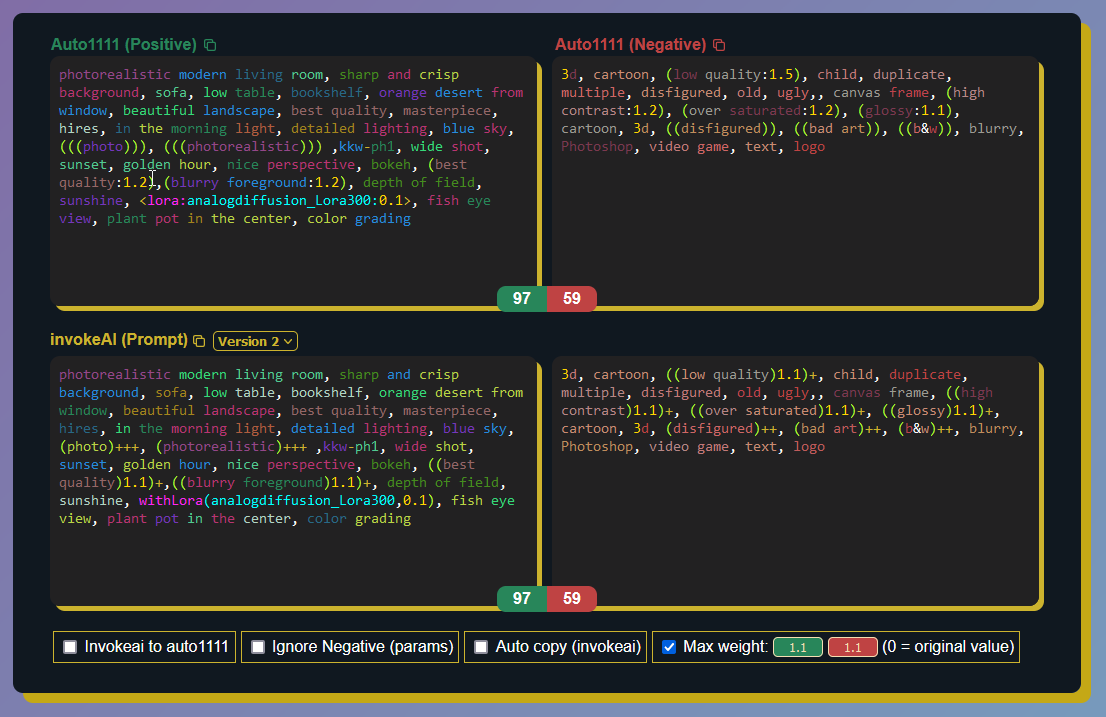
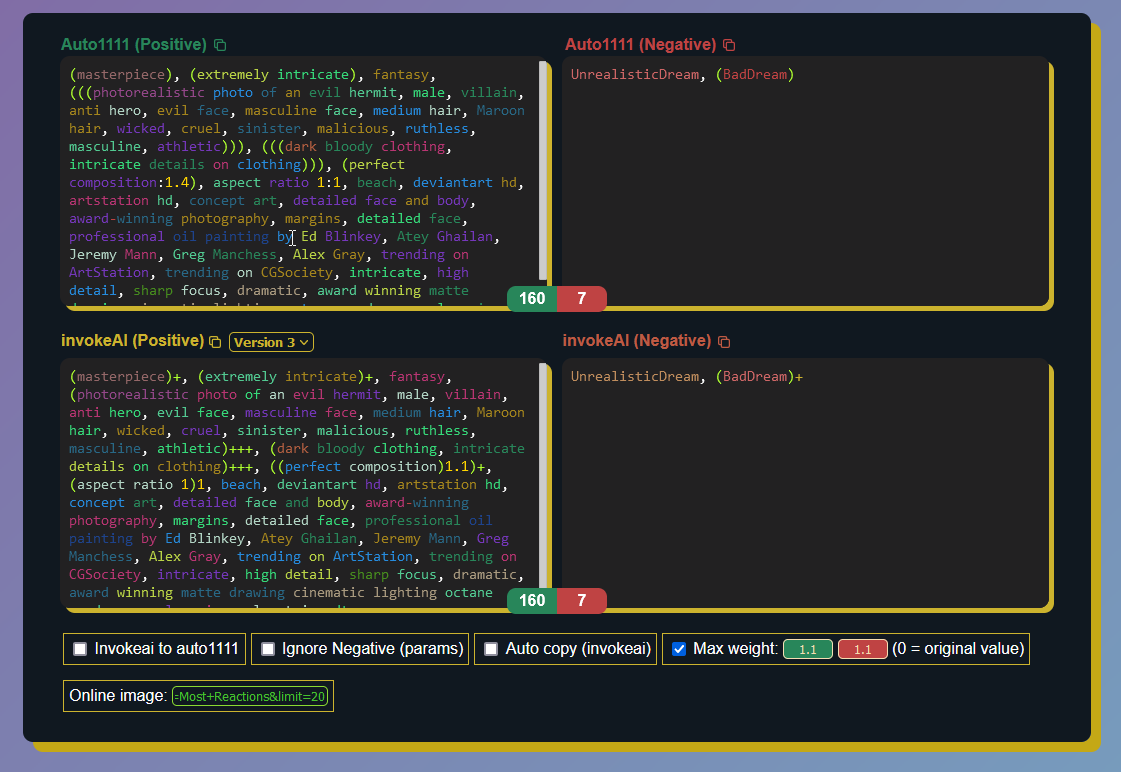
Update 1.4.2

Changed region(s): [[0.0, 0.0, 1.0, 0.9819]]

diff --git a/docs/converter.js b/docs/converter.js
@@ -183,6 +183,7 @@ $(document).ready(function () {
     $('#auto-copy-check').prop('checked', autoCopyInvokeAI);
     $('#limit-weight-positive-value').val(defaultLimitWeightPositive);
     $('#limit-weight-negative-value').val(defaultLimitWeightNegative);
+    $("#remote-image-link").val("");
 
     //Set current version
     invokeaiVersion = $("#invokeai-release").val();
@@ -340,4 +341,113 @@ $(document).ready(function () {
             }
         }
     });
+
+    //Remote image event
+    //Attach checkboxes events
+    $("#remote-image-link").on("input", function () {
+        var onlineImageElement = $("#remote-image-link");
+        var onlineImageContainer = $("#online-image-container");
+        var link = onlineImageElement.val();
+        onlineImageElement.removeClass("correct");
+        onlineImageElement.removeClass("wrong");
+        onlineImageContainer.attr("data-tippy-content", "Get prompt from online image");
+        if (link.length > 0) {
+            FetchRemoteImagePrompt(link);
+        }
+    });
 });
+
+function FetchRemoteImagePrompt(imageLink) {
+    var onlineImageElement = $("#remote-image-link");
+    var onlineImageContainer = $("#online-image-container");
+    if (typeof imageLink !== 'undefined' && imageLink.indexOf("http") !== -1 && imageLink.indexOf("images/") !== -1) {
+        var loaderElement = $("#online-image-loader");
+
+        loaderElement.fadeIn("fast").css("display", "inline-block");
+        onlineImageElement.prop('disabled', true);
+        var regex = /(.*)(images\/)(\d+).*/;
+        var imageID = imageLink.replace(regex, "$3");
+        var siteLink = imageLink.replace(regex, "$1");
+        var expectedAPI = siteLink + "api/v1/images?imageId=" + imageID;
+        auto1111PositiveCodeMirror.getDoc().setValue("");
+        auto1111NegativeCodeMirror.getDoc().setValue("");
+        setTimeout(function () {
+            try {
+                var xhr = new XMLHttpRequest();
+                xhr.open("GET", expectedAPI, false);
+                xhr.setRequestHeader("Content-type", "application/json");
+                xhr.onload = function (e) {
+                    if (xhr.readyState === 4) {
+                        if (xhr.status === 200) {
+                            var responseFullData = xhr.responseText;
+                            var jsonResult = responseFullData;
+                            try {
+                                jsonResult = JSON.parse(responseFullData);
+                            } catch (exj) {
+
+                            }
+                            if (jsonResult != null && typeof jsonResult["items"] !== 'undefined' && typeof jsonResult["items"][0] !== 'undefined') {
+                                var targetImage = jsonResult["items"][0];
+                                if (typeof targetImage["meta"] !== 'undefined') {
+                                    var imageMeta = targetImage["meta"];
+                                    var fetchedPositive = typeof imageMeta["prompt"] !== 'undefined' ? imageMeta["prompt"] : "";
+                                    var fetchedNegative = typeof imageMeta["negativePrompt"] !== 'undefined' ? imageMeta["negativePrompt"] : "";
+
+                                    if ((fetchedPositive != null && fetchedPositive.length) > 0 || (fetchedNegative != null && fetchedNegative.length) > 0) {
+                                        if (fetchedPositive != null && fetchedPositive.length > 0) {
+                                            auto1111PositiveCodeMirror.getDoc().setValue(fetchedPositive);
+                                        }
+                                        if (fetchedNegative != null && fetchedNegative.length > 0) {
+                                            auto1111NegativeCodeMirror.getDoc().setValue(fetchedNegative);
+                                        }
+                                        onlineImageElement.addClass("correct");
+                                        onlineImageContainer.attr("data-tippy-content", "Prompt found and fetched");
+                                    } else {
+                                        onlineImageElement.addClass("wrong");
+                                        onlineImageContainer.attr("data-tippy-content", "Image doesn't have prompts");
+                                    }
+                                } else {
+                                    onlineImageElement.addClass("wrong");
+                                    onlineImageContainer.attr("data-tippy-content", "Images doesn't have meta data");
+                                }
+                            } else {
+                                onlineImageElement.addClass("wrong");
+                                onlineImageContainer.attr("data-tippy-content", "Response doesn't contain valid data");
+                            }
+                        } else {
+                            onlineImageElement.addClass("wrong");
+                            onlineImageContainer.attr("data-tippy-content", "Request failed, check console log");
+                        }
+                    }
+                };
+                xhr.onerror = function (e) {
+                    onlineImageElement.addClass("wrong");
+                    onlineImageContainer.attr("data-tippy-content", e.message);
+                };
+
+                xhr.onabort = function (e) {
+                    onlineImageElement.addClass("wrong");
+                    onlineImageContainer.attr("data-tippy-content", e.message);
+                };
+
+                xhr.ontimeout = function (e) {
+                    onlineImageElement.addClass("wrong");
+                    onlineImageContainer.attr("data-tippy-content", e.message);
+                };
+
+                xhr.send();
+
+
+                onlineImageElement.prop('disabled', false);
+                loaderElement.fadeOut("fast");
+            } catch (ex) {
+                console.warn(ex);
+                onlineImageElement.prop('disabled', false);
+                loaderElement.fadeOut("fast");
+            }
+        }, 500);
+    } else {
+        onlineImageElement.addClass("wrong");
+        onlineImageContainer.attr("data-tippy-content", "This link is not valid or not supported");
+    }
+}

diff --git a/docs/index.html b/docs/index.html
@@ -100,7 +100,8 @@
                 <!-- InvokeAI Header -->
                 <th style="width: 50%;display: inline-flex;">
                     <label class="input-label-invoke" target="invokeai-positive" style="color: #ccb32e;"
-                        data-tippy-content="Click to copy (positive + negative)"><p id="invokeai-positive-label" style="display: inline;">invokeAI (Prompt)</p>
+                        data-tippy-content="Click to copy (positive + negative)">
+                        <p id="invokeai-positive-label" style="display: inline;">invokeAI (Prompt)</p>
                         <a class="invokeai-copy" id="copy-invokeai-prompt">
                             <svg xmlns="http://www.w3.org/2000/svg" width="16" height="16" viewBox="0 0 24 24"
                                 fill="none" stroke="currentColor" stroke-width="2" stroke-linecap="round"
@@ -187,12 +188,21 @@
                         <p style="display: inline;">(0 = original value)</p>
                     </div>
                 </tr>
+                <tr>
+                    <div class="options-check" id="online-image-container" data-tippy-content="Get prompt from online image">
+                        <label class="checkbox-label" for="limit-weight-check">Online image: </label>
+                        <input class="online-image" id="remote-image-link" type="text" placeholder="Pase link here" />
+                        <div id="online-image-loader" class="loader" style="display: none;"></div> 
+                    </div>
+                </tr>
             </table>
         </div>
     </div>
     <footer id="page-footer">
         <div class="footer-copyright text-center">&copy; Developed with ❤</i> by
-            <a href="https://github.com/basharast" class="white-text" target="_blank">Bashar Astifan</a>, <a href="https://github.com/invoke-ai/InvokeAI/discussions/3680" class="white-text" target="_blank">Discussions</a>
+            <a href="https://github.com/basharast" class="white-text" target="_blank">Bashar Astifan</a>, <a
+                href="https://github.com/invoke-ai/InvokeAI/discussions/3680" class="white-text"
+                target="_blank">Discussions</a>
         </div>
     </footer>
 </body>

diff --git a/docs/converter.css b/docs/converter.css
@@ -241,9 +241,57 @@ th {
   width: 85px;
 }
 
-select > option {
+select>option {
   color: #101820;
   cursor: pointer;
+}
+
+.online-image {
+  background: transparent;
+  color: white;
+  border-radius: 5px;
+  border: 1px solid tan;
+}
+
+.online-image.wrong {
+  background: transparent;
+  color: rgb(192, 46, 46);
+  border: 1px solid rgb(218, 68, 49);
+}
+
+.online-image.correct {
+  background: transparent;
+  color: rgb(70, 192, 46);
+  border: 1px solid rgb(139, 218, 49);
+}
+
+.online-image[disabled]{
+  background: gray;
+  opacity: 0.7;
+}
+
+.loader {
+  border-radius: 50%;
+  animation: spin 2s linear infinite;
+  display: inline-block;
+  width: 10px;
+  height: 10px;
+  border: 3px solid #f3f3f3;
+  border-top-color: rgb(243, 243, 243);
+  border-top-style: solid;
+  border-top-width: 3px;
+  border-top: 3px solid #ccb32e;
+  margin-bottom: -3px;
+}
+
+@keyframes spin {
+  0% {
+    transform: rotate(0deg);
+  }
+
+  100% {
+    transform: rotate(360deg);
+  }
 }
 
 @media screen and (-webkit-min-device-pixel-ratio:0) {
@@ -321,12 +369,12 @@ footer a:hover {
 
 @media screen and (max-width: 980px) {
   body .div {
-    width: 95% !important; 
+    width: 95% !important;
   }
 }
 
 @media screen and (min-width: 980px) and (max-width: 1320px) {
   body .div {
-    width: 75% !important; 
+    width: 75% !important;
   }
 }
